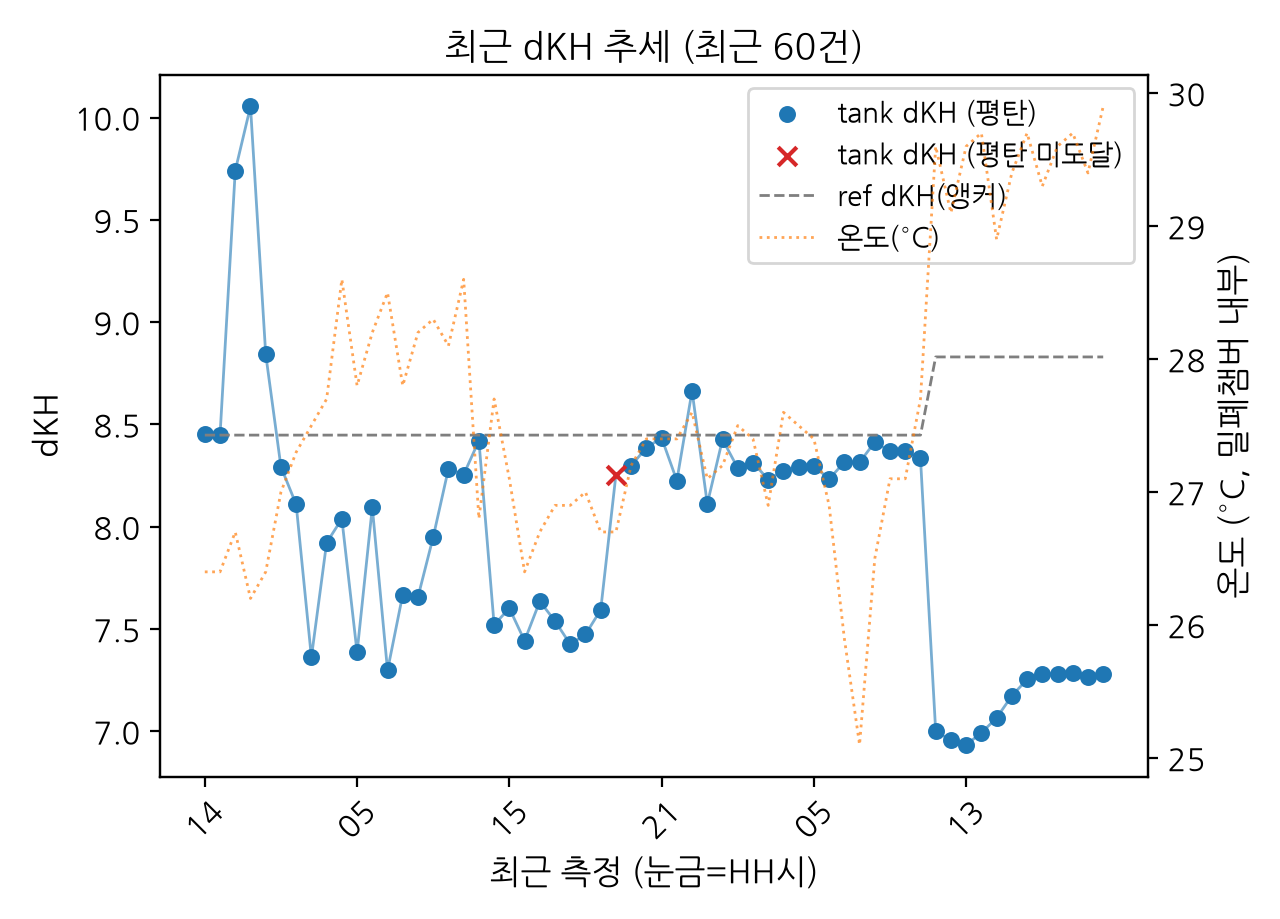
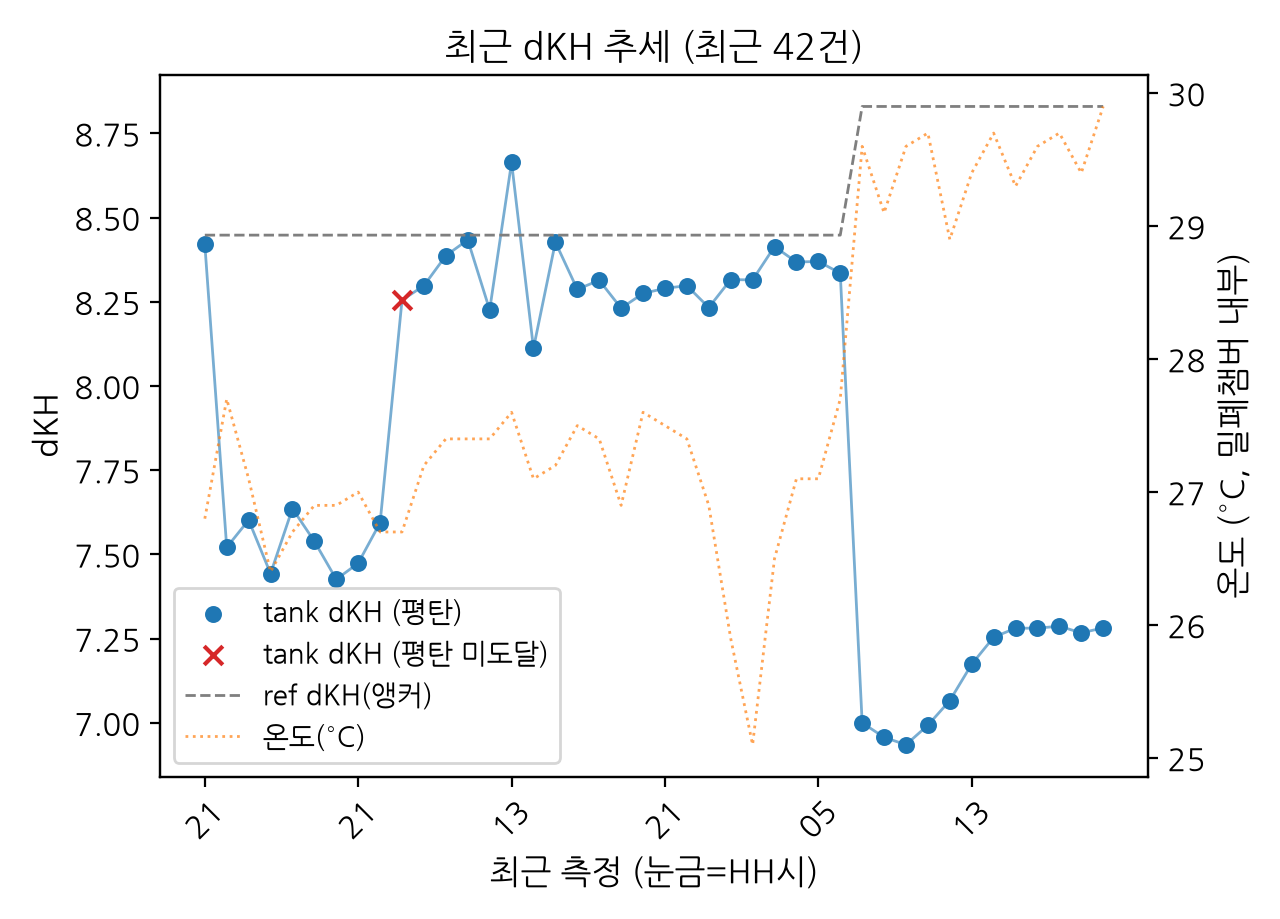
feat(pages): dkh.dat 그래프를 최근 2주(42건)로 제한
전체 이력을 무제한으로 그리면 데이터가 쌓일수록 차트가 계속 넓어져
가독성이 떨어짐. Actions의 두 렌더링 호출 모두 --recent 42(하루 3회
기준 2주 근사) 적용, 제목·측정 대장 캡션에도 명시. 전체 이력은
data/dkh.dat 원본으로 여전히 남아있음.

diff --git a/bin/plot_dkh.py b/bin/plot_dkh.py
@@ -88,7 +88,7 @@ def plot(rows, out_path, mobile=False):
     h2, l2 = ax2.get_legend_handles_labels()
     ax1.legend(h1 + h2, l1 + l2, loc="best", fontsize=fs_legend)
 
-    title = f"최근 dKH 추세 (최근 {total}건)" if mobile else f"KH 측정 대장 (dkh.dat) — {total}건"
+    title = f"최근 dKH 추세 (최근 {total}건)" if mobile else f"KH 측정 대장 (dkh.dat) — 최근 {total}건"
     ax1.set_title(title, fontsize=fs_title)
     fig.tight_layout()
     fig.savefig(out_path, dpi=fig.dpi)

diff --git a/docs/measurement-ledger.md b/docs/measurement-ledger.md
@@ -6,7 +6,7 @@
 
 ![dKH 추세](images/dkh_trend.png)
 
-*하루 3회(05/13/21시) 측정 결과 자동 반영. WSL이 주기적으로 Windows 원본 `dkh.dat`을 [`data/dkh.dat`](../data/dkh.dat)로 동기화·push하면, GitHub Actions([`plot-dkh.yml`](../.github/workflows/plot-dkh.yml))가 이 그래프를 다시 그려 커밋한다 — 최대 수십 분 지연.*
+*하루 3회(05/13/21시) 측정 결과 자동 반영, 최근 2주(약 42건)만 표시. WSL이 주기적으로 Windows 원본 `dkh.dat`을 [`data/dkh.dat`](../data/dkh.dat)로 동기화·push하면, GitHub Actions([`plot-dkh.yml`](../.github/workflows/plot-dkh.yml))가 이 그래프를 다시 그려 커밋한다 — 최대 수십 분 지연. 전체 이력은 [`data/dkh.dat`](../data/dkh.dat) 원본 참조.*
 
 ΔpH/dKH 검증을 계속하려면 "각 측정이 어떤 코드·환경에서 나왔는가"를 정확히 알아야 한다.
 git 커밋만으로는 부족하다 — **6/16 13:00 변경(STABLE·EPS)과 v2 재작성은 커밋되지 않고 작업트리에서만